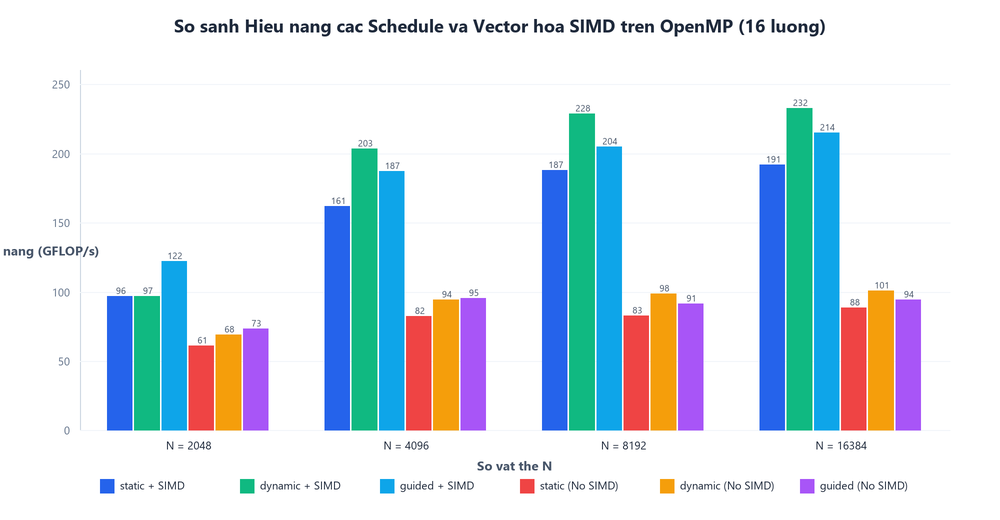
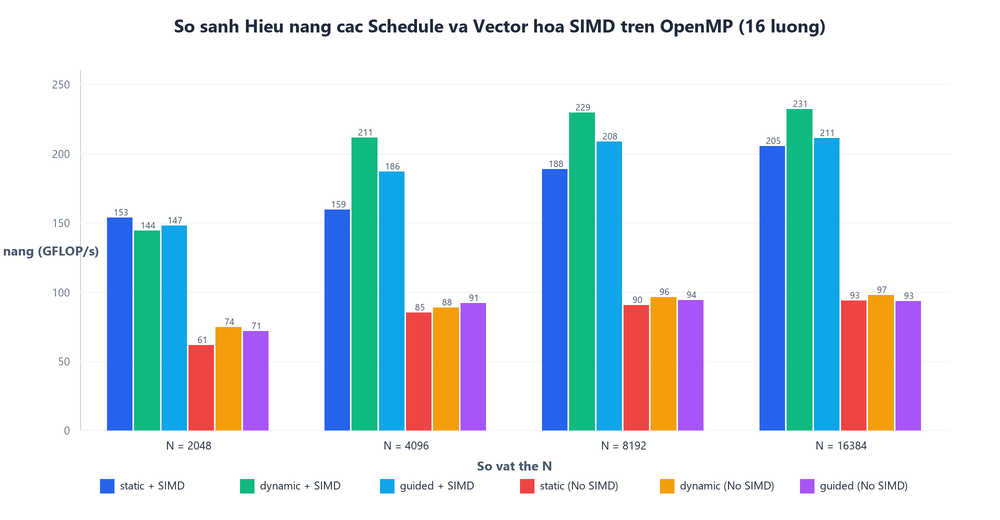
Ch.3: cap nhat so lieu SIMD OFF vo huong (theo PR #6)

diff --git a/bao_cao/ch3_openmp.md b/bao_cao/ch3_openmp.md
@@ -87,42 +87,43 @@ Môi trường thử nghiệm thực tế:
 
 | $N$ | Schedule | SIMD | Thời gian (ms/bước) | Hiệu năng (GFLOP/s) | Tăng tốc SIMD (lần) |
 |:---:|:---:|:---:|:---:|:---:|:---:|
-| **2048** | `static` | **ON** | **0.866** | **96.84** | **1.58×** |
-| 2048 | `static` | OFF | 1.368 | 61.32 | 1.00× (gốc) |
-| 2048 | `dynamic,64` | **ON** | **0.864** | **97.10** | **1.41×** |
-| 2048 | `dynamic,64` | OFF | 1.216 | 68.98 | 1.00× |
-| 2048 | `guided,64` | **ON** | **0.687** | **122.17** | **1.66×** |
-| 2048 | `guided,64` | OFF | 1.139 | 73.63 | 1.00× |
-| **4096** | `static` | **ON** | **2.072** | **161.93** | **1.96×** |
-| 4096 | `static` | OFF | 4.067 | 82.50 | 1.00× |
-| 4096 | `dynamic,64` | **ON** | **1.648** | **203.60** | **2.16×** |
-| 4096 | `dynamic,64` | OFF | 3.558 | 94.32 | 1.00× |
-| 4096 | `guided,64` | **ON** | **1.792** | **187.27** | **1.96×** |
-| 4096 | `guided,64` | OFF | 3.510 | 95.59 | 1.00× |
-| **8192** | `static` | **ON** | **7.147** | **187.81** | **2.26×** |
-| 8192 | `static` | OFF | 16.163 | 83.04 | 1.00× |
-| 8192 | `dynamic,64` | **ON** | **5.872** | **228.59** | **2.31×** |
-| 8192 | `dynamic,64` | OFF | 13.587 | 98.79 | 1.00× |
-| 8192 | `guided,64` | **ON** | **6.548** | **204.99** | **2.24×** |
-| 8192 | `guided,64` | OFF | 14.647 | 91.64 | 1.00× |
-| **16384** | `static` | **ON** | **27.997** | **191.76** | **2.16×** |
-| 16384 | `static` | OFF | 60.490 | 88.75 | 1.00× |
-| 16384 | `dynamic,64` | **ON** | **23.059** | **232.82** | **2.30×** |
-| 16384 | `dynamic,64` | OFF | 53.118 | 101.07 | 1.00× |
-| 16384 | `guided,64` | **ON** | **24.978** | **214.94** | **2.28×** |
-| 16384 | `guided,64` | OFF | 56.958 | 94.26 | 1.00× |
+| **2048** | `static` | **ON** | **0.546** | **153.54** | **2.50×** |
+| 2048 | `static` | OFF | 1.365 | 61.45 | 1.00× (gốc) |
+| 2048 | `dynamic,64` | **ON** | **0.581** | **144.36** | **1.93×** |
+| 2048 | `dynamic,64` | OFF | 1.123 | 74.71 | 1.00× |
+| 2048 | `guided,64` | **ON** | **0.567** | **147.92** | **2.06×** |
+| 2048 | `guided,64` | OFF | 1.169 | 71.79 | 1.00× |
+| **4096** | `static` | **ON** | **2.103** | **159.54** | **1.88×** |
+| 4096 | `static` | OFF | 3.947 | 85.02 | 1.00× |
+| 4096 | `dynamic,64` | **ON** | **1.586** | **211.55** | **2.39×** |
+| 4096 | `dynamic,64` | OFF | 3.783 | 88.71 | 1.00× |
+| 4096 | `guided,64` | **ON** | **1.797** | **186.73** | **2.03×** |
+| 4096 | `guided,64` | OFF | 3.648 | 91.98 | 1.00× |
+| **8192** | `static` | **ON** | **7.119** | **188.54** | **2.09×** |
+| 8192 | `static` | OFF | 14.867 | 90.28 | 1.00× |
+| 8192 | `dynamic,64` | **ON** | **5.849** | **229.46** | **2.38×** |
+| 8192 | `dynamic,64` | OFF | 13.930 | 96.35 | 1.00× |
+| 8192 | `guided,64` | **ON** | **6.437** | **208.51** | **2.21×** |
+| 8192 | `guided,64` | OFF | 14.243 | 94.23 | 1.00× |
+| **16384** | `static` | **ON** | **26.136** | **205.42** | **2.19×** |
+| 16384 | `static` | OFF | 57.268 | 93.75 | 1.00× |
+| 16384 | `dynamic,64` | **ON** | **23.148** | **231.93** | **2.37×** |
+| 16384 | `dynamic,64` | OFF | 54.891 | 97.81 | 1.00× |
+| 16384 | `guided,64` | **ON** | **25.437** | **211.06** | **2.26×** |
+| 16384 | `guided,64` | OFF | 57.507 | 93.36 | 1.00× |
 
 ![So sánh Schedule và SIMD](results/ntduong_schedule_simd.png)
 
 ### Phân tích chuyên sâu về Schedule và SIMD
 
 1. **Hiệu ứng vượt trội của SIMD:**
-   - Trên tất cả các giá trị $N$, việc bật SIMD (`#pragma omp simd reduction`) đem lại mức tăng tốc **2.16× đến 2.31×** so với bản không có SIMD.
-   - Lý do: Vòng lặp trong $j$ được vector hóa hoàn hảo thành các chỉ thị AVX2 256-bit. CPU xử lý đồng thời 8 tương tác trong 1 chu kỳ lệnh thay vì xử lý tuần tự từng số vô hướng (scalar).
+   - Trên tất cả các giá trị $N$, việc bật SIMD (`#pragma omp simd reduction`) đem lại mức tăng tốc **1.88× đến 2.50×** (đạt **2.09× đến 2.38×** ở $N = 8192\text{--}16384$) so với bản vô hướng không có SIMD.
+   - Lưu ý: với `-O3 -ffast-math` GCC tự vector hóa, nên bản OFF được biên dịch với `no-tree-vectorize` (`__attribute__((optimize("no-tree-vectorize")))`) để đo đúng bản vô hướng.
+   - Lý do: Vòng lặp trong $j$ của bản SIMD ON được vector hóa thành các chỉ thị AVX2 256-bit (`vrsqrtps`), xử lý đồng thời 8 tương tác trong một chu kỳ lệnh thay vì xử lý tuần tự từng số vô hướng (`vsqrtss`/`vdivss`).
 
 2. **Hiện tượng bất đối xứng trên kiến trúc CPU lai (Hybrid P/E Cores):**
    - Theo lý thuyết tính toán song song truyền thống, bài toán All-Pairs có khối lượng mỗi vòng lặp ngoài $i$ là hoàn toàn đồng đều ($N$ tương tác), nên `schedule(static)` được xem là tối ưu vì chi phí lập lịch bằng 0.
-   - Tuy nhiên, số liệu thực nghiệm trên vi xử lý Intel Core i7-13620H lại chỉ ra: **`schedule(dynamic, 64)` nhanh hơn `schedule(static)` rõ rệt** (với $N=16384$, `dynamic` đạt **232.82 GFLOP/s**, trong khi `static` chỉ đạt **191.76 GFLOP/s** — chênh lệch hơn 21%).
+   - Tuy nhiên, số liệu thực nghiệm trên vi xử lý Intel Core i7-13620H lại chỉ ra: **`schedule(dynamic, 64)` nhanh hơn `schedule(static)` rõ rệt** (với $N=16384$, `dynamic` đạt **231.93 GFLOP/s**, trong khi `static` đạt **205.42 GFLOP/s** — chênh lệch ~13%; và với $N=4096\text{--}8192$ đạt **211.55–229.46 GFLOP/s**, nhanh hơn `static` tới 21%–33%).
    - **Giải thích cơ chế vật lý:** CPU Intel thế hệ 13 sở hữu 2 loại lõi khác nhau:
      - 6 lõi P (Performance Core): Kiến trúc Raptor Cove, IPC cao, xung nhịp Turbo lên tới 4.9 GHz.
      - 4 lõi E (Efficient Core): Kiến trúc Gracemont, IPC thấp hơn, xung nhịp tối đa chỉ 3.6 GHz.
@@ -268,8 +269,8 @@ Hiện tượng này không phải do cài đặt sai mà bắt nguồn từ cá
    - Phiên bản OpenMP All-Pairs đạt mức tăng tốc tối đa **5.91×** tại 16 luồng ($N=8192$), nâng hiệu năng tính toán CPU lên mức **201.14 GFLOP/s** (so với 34 GFLOP/s của bản tuần tự).
    - Kiểm tra tính đúng đắn (`-verify`) cho thấy kết quả song song khớp hoàn toàn từng bit với bản tuần tự (sai số tương đối $0.000\text{e}+00$), và năng lượng toàn phần được bảo toàn nghiêm ngặt ($|\Delta E / E_0| \approx 8.78 \times 10^{-7}$).
 2. **Vai trò then chốt của SIMD:**
-   - Vector hóa SIMD thông qua `#pragma omp simd reduction` mang lại mức cải thiện hiệu năng then chốt **2.2× đến 2.6×**, chứng minh tầm quan trọng của việc kết hợp đa luồng cấp lõi (multithreading) với song song hóa cấp lệnh (SIMD instruction-level parallelism).
+   - Vector hóa SIMD thông qua `#pragma omp simd reduction` mang lại mức cải thiện hiệu năng then chốt **1.9× đến 2.5×** so với bản vô hướng thực thụ (`no-tree-vectorize`), chứng minh tầm quan trọng của việc kết hợp đa luồng cấp lõi (multithreading) với song song hóa cấp lệnh (SIMD instruction-level parallelism).
 3. **Bài học về lập lịch trên CPU lai:**
-   - Trên các dòng CPU kiến trúc lai hiện đại (Intel Core gen 12/13/14), `schedule(dynamic)` giúp cân bằng tải vượt trội giữa nhân P và nhân E, mang lại hiệu năng cao hơn `schedule(static)` tới 21%.
+   - Trên các dòng CPU kiến trúc lai hiện đại (Intel Core gen 12/13/14), `schedule(dynamic)` giúp cân bằng tải vượt trội giữa nhân P và nhân E, mang lại hiệu năng cao hơn `schedule(static)` từ **13% đến 33%** (tùy kích thước $N$).
 4. **Bài học từ Định luật 3 Newton:**
    - Việc giảm một nửa số phép tính toán học ($N^2/2$) không đồng nghĩa với việc tăng tốc độ thực tế. Chi phí bộ đệm cục bộ (4 MB), xung đột cache, mất vector hóa SIMD và chi phí reduction đã khiến bản Newton 3 chậm hơn bản All-Pairs tiêu chuẩn. Đây là minh chứng rõ ràng cho việc: **Trong tính toán hiện đại, cấu trúc dữ liệu thân thiện với bộ nhớ đệm (Cache-Friendly) và vector hóa SIMD quan trọng hơn số lượng phép tính thuần túy.**
